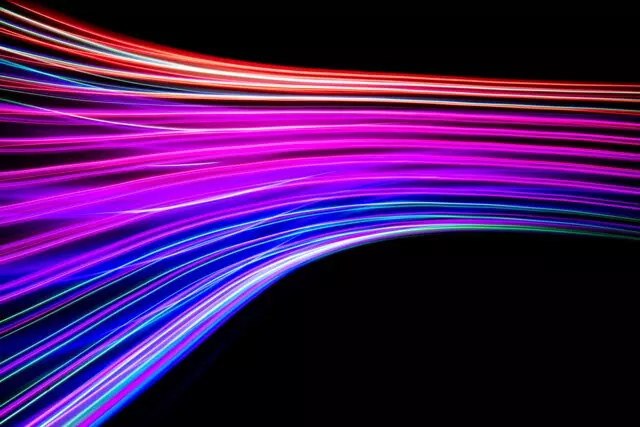
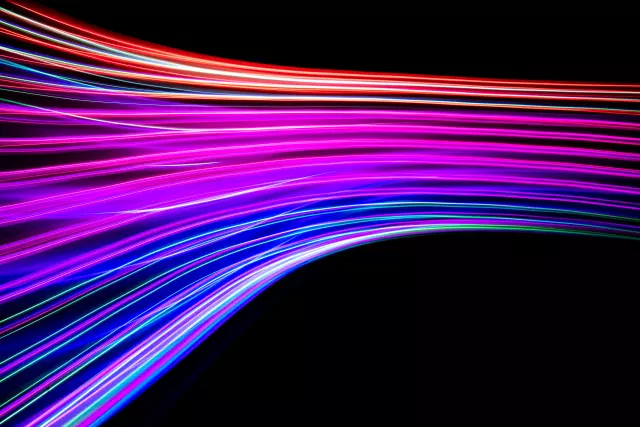
fix: hero 이미지를 sm, md, lg 3가지로 구분한다

diff --git a/src/pages/Home/Home.jsx b/src/pages/Home/Home.jsx
@@ -8,8 +8,6 @@ import FeatureItem from "../../components/FeatureItem/FeatureItem";
 import heroImageSm from "../../assets/images/hero-sm.webp";
 import heroImageMd from "../../assets/images/hero-md.webp";
 import heroImageLg from "../../assets/images/hero-lg.webp";
-import heroImageXl from "../../assets/images/hero-xl.webp";
-import heroImage2Xl from "../../assets/images/hero-2xl.webp";
 
 import trendingMp4 from "../../assets/images/trending.mp4";
 import trendingWebm from "../../assets/images/trending.webm";
@@ -24,13 +22,11 @@ const Home = () => (
     <section className={styles.heroSection}>
       <img
         className={styles.heroImage}
-        src={heroImage2Xl}
+        src={heroImageLg}
         srcSet={`
           ${heroImageSm} 640w,
-          ${heroImageMd} 768x,
-          ${heroImageLg} 1024w,
-          ${heroImageXl} 1280w,
-          ${heroImage2Xl} 1536w
+          ${heroImageMd} 1280w,
+          ${heroImageLg} 1920w
         `}
         sizes="100vw"
         alt="hero"
